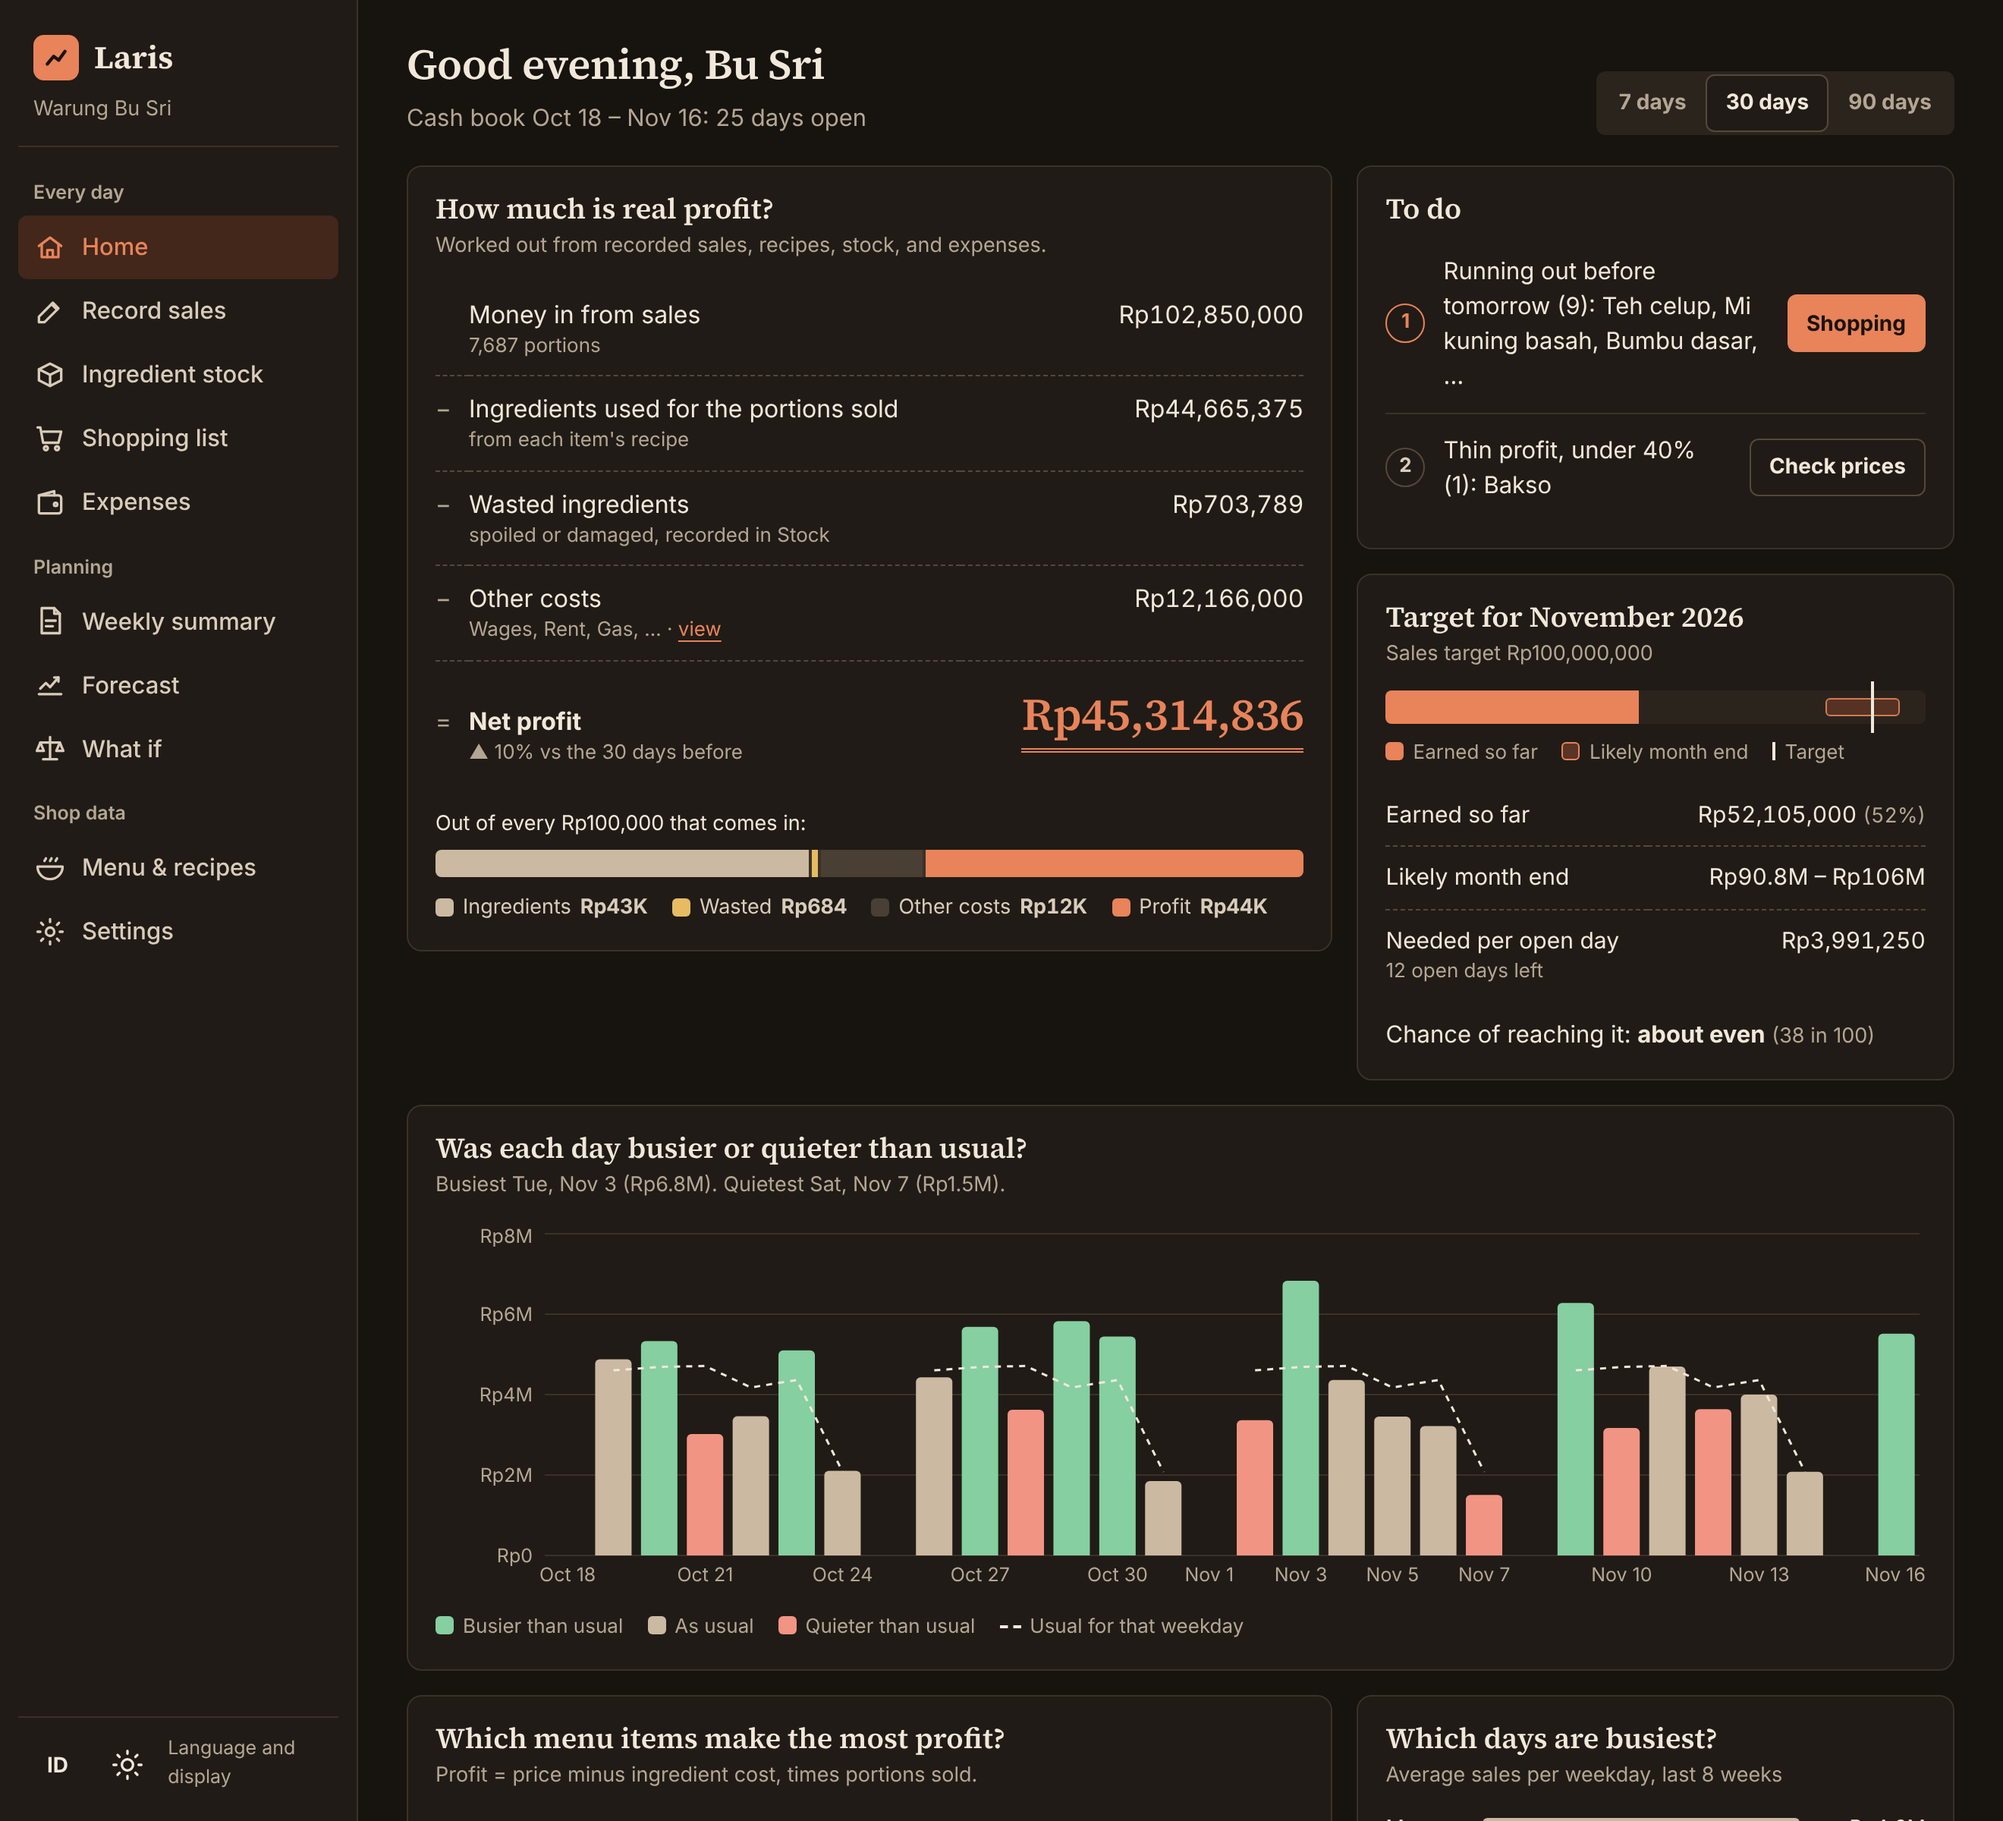
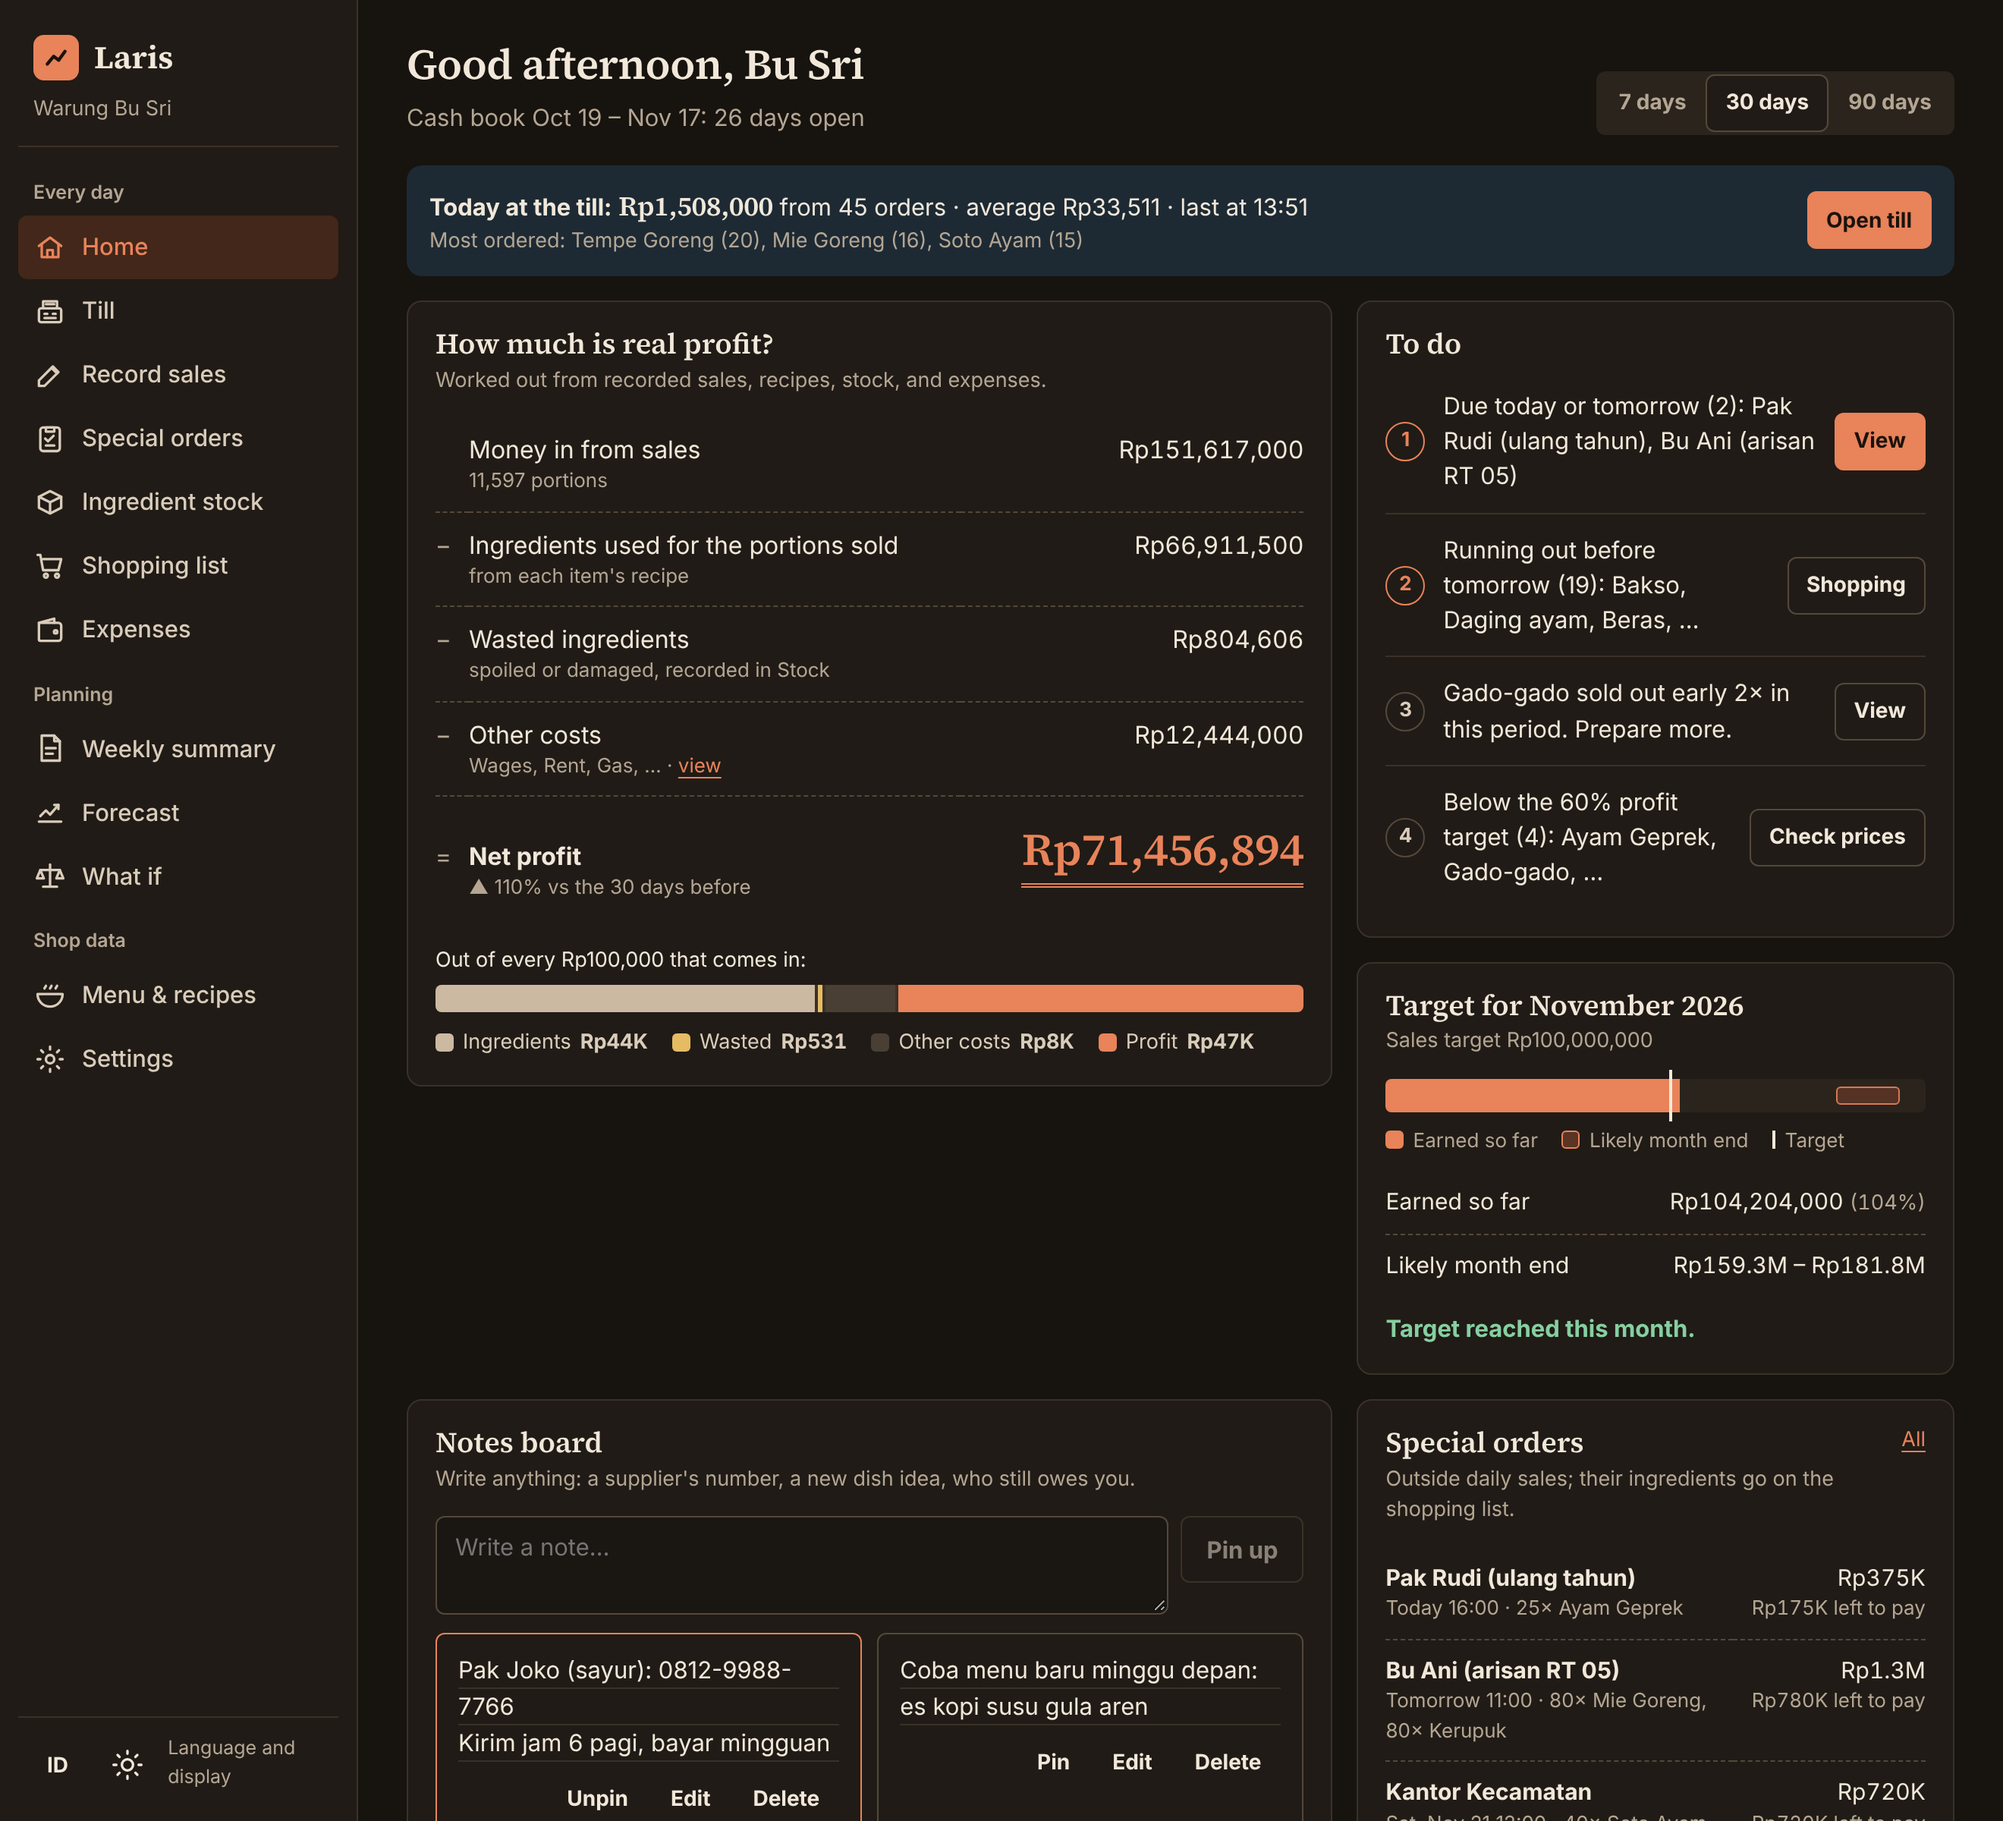
README: download link, till, kiosks, new screenshots and diagram

diff --git a/README.md b/README.md
@@ -1,13 +1,21 @@
 # Laris
 
 [![ci](https://github.com/Epinnn14/laris/actions/workflows/ci.yaml/badge.svg)](https://github.com/Epinnn14/laris/actions/workflows/ci.yaml)
+[![windows app](https://github.com/Epinnn14/laris/actions/workflows/windows.yaml/badge.svg)](https://github.com/Epinnn14/laris/actions/workflows/windows.yaml)
+[![release](https://img.shields.io/github/v/release/Epinnn14/laris)](https://github.com/Epinnn14/laris/releases/latest)
 
-**Sales analytics, demand forecasting and ingredient planning for Indonesian warung makan and cafés.**
+**Sales analytics, till, demand forecasting and ingredient planning for Indonesian warung makan,
+cafés and grocery kiosks.** Runs offline on the shop laptop and opens on any phone on the same WiFi.
 *Catat penjualan, pantau stok bahan, dan tahu besok harus belanja apa.*
+
+**Download for Windows:** [Laris-Setup (latest release)](https://github.com/Epinnn14/laris/releases/latest).
+No Docker, no terminal: install, scan the QR code with the cashier's phone, sell.
+Indonesian setup guide: [docs/PASANG.md](docs/PASANG.md).
 
 A small food stall decides every evening how much chicken, rice and milk to buy for tomorrow.
 Buy too little and the best seller runs out at lunch. Buy too much and fresh ingredients spoil.
-Laris turns the daily sales the owner already writes down into answers to three questions:
+Laris turns what the shop already records, orders at the till or the day's totals in the evening,
+into answers to three questions:
 
 1. **How is the business doing?** A cash-book statement from sales down to net profit (ingredients
    used, waste, and running costs such as gas, rent and wages), progress towards the monthly
@@ -22,9 +30,9 @@ Laris turns the daily sales the owner already writes down into answers to three 
 
 ![Dashboard](docs/screenshots/dashboard.png)
 
-<p align="center"><img src="docs/screenshots/phone-catat.png" width="200" alt="Recording sales on a phone">
+<p align="center"><img src="docs/screenshots/phone-kasir.png" width="200" alt="Taking payment at the till on a phone">
+<img src="docs/screenshots/phone-pesanan.png" width="200" alt="Special orders on a phone">
 <img src="docs/screenshots/phone-belanja.png" width="200" alt="Shopping list on a phone">
-<img src="docs/screenshots/phone-simulasi.png" width="200" alt="What-if on a phone">
 <img src="docs/screenshots/phone-ringkasan.png" width="200" alt="Weekly summary on a phone"></p>
 
 Also in the app:
@@ -47,7 +55,7 @@ Also in the app:
 - **What if:** a new price or a promotion for one item, compared with the current forecast for
   the next 4 weeks. The promotion effect comes from the model; the price effect uses a rough
   price sensitivity the owner picks, and the page says so.
-- **Price suggestions** from the recipe cost and the wished margin.
+- **Price suggestions** from the cost per portion and the wished margin.
 - **Light and dark** display and **Indonesian or English**.
 - **Kios / toko kelontong:** each good is its own stock. The model has only seen warung and café
   patterns, so a kios is forecast with the warung pattern; the in-app backtest shows how well that
@@ -55,15 +63,18 @@ Also in the app:
 
 ![Dashboard in dark mode, in English](docs/screenshots/dashboard-dark-en.png)
 
-The app is built for phones first. It runs on a laptop with one
-`docker compose up`, or online for free (Render + Neon). The model runs on CPU through
-onnxruntime, so it needs no GPU and no internet. Owners: see the [Indonesian guide](docs/PANDUAN.md).
+<p align="center"><img src="docs/screenshots/desktop-window.png" width="300" alt="The Laris window on the shop laptop: address, QR code for phones, backups"></p>
+
+The app is built for phones first. On a shop laptop it is one Windows installer; it also runs
+with `docker compose up`, or online (Render + Neon). The model runs on CPU through onnxruntime,
+so it needs no GPU and no internet. Owners: see the [Indonesian guide](docs/PANDUAN.md).
 
 ## How it works
 
 ```mermaid
 flowchart LR
-  R[Daily sales, closures, promos<br/>recorded in the app] --> W[Last 8 weeks per menu item<br/>+ known calendar of the next 4]
+  K[Till orders] --> R
+  R[Daily totals, closures, promos] --> W[Last 8 weeks per menu item<br/>+ known calendar of the next 4]
   C[Indonesian calendar<br/>Hijri dates, holidays, paydays] --> W
   W --> M[LarisNet<br/>ONNX, CPU]
   M --> Q[Quantiles per item per day<br/>10/25/50/75/90/95%]
@@ -71,11 +82,13 @@ flowchart LR
   S --> T[Revenue and portion forecasts]
   S --> P[Ingredient demand via recipes]
   P --> B[Shopping list<br/>lead time, cycle, shelf life, packs, service level]
+  O[Special orders<br/>due date, items] --> B
   R --> A[Dashboard analytics]
 ```
 
-**Recording drives everything.** When the owner saves a day's sales, the ingredients the recipes
-used are booked as stock movements. Stock is the sum of its movements: purchases, use, waste and
+**Recording drives everything.** Each till order adds to the day's totals, and the owner can also
+type the totals in the evening. When a day's sales change, the ingredients the recipes used are
+booked as stock movements. Stock is the sum of its movements: purchases, use, waste and
 stock counts. Every number can be traced, and editing a past day rebooks its usage.
 
 ### The model: LarisNet
@@ -223,7 +236,7 @@ frontend/src/       React + TypeScript + Recharts, mobile-first, Indonesian and 
 models/larisnet/    model.onnx + meta.json + eval results (the app's model)
 notebooks/          training on Colab / Kaggle GPUs
 desktop/            Windows app: launcher window, PyInstaller spec, Inno Setup installer
-docs/               owner guide (ID), deployment (ID)
+docs/               owner guide, laptop install guide, deployment (all ID)
 ```
 
 ## Tests and CI
